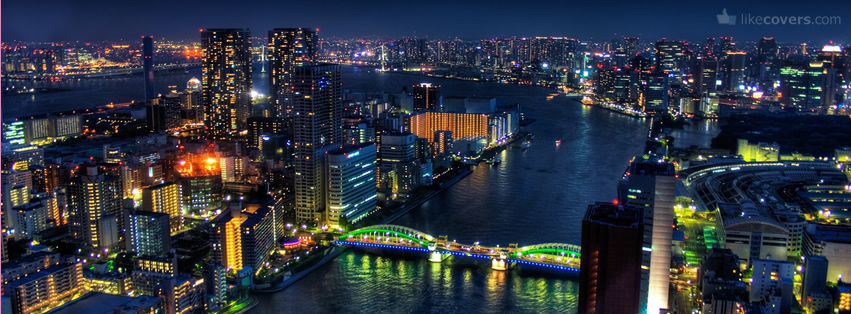
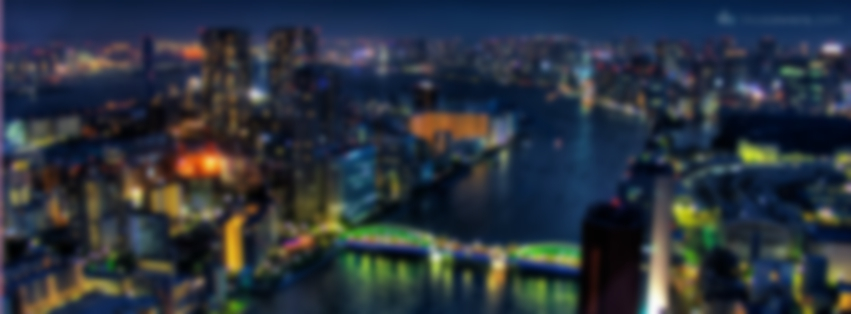
updated css setting

Changed region(s): [[0.0, 0.0, 1.0, 1.0], [0.8555, 0.0573, 0.9777, 0.086], [0.6722, 0.6879, 0.7333, 0.7166]]

diff --git a/index.html b/index.html
@@ -64,7 +64,7 @@
 	/* Defining each sectino background and styles
 	* --------------------------------------- */
 
-
+  /*
 	.myClass0:before {
   		background: url(images/city.jpg) no-repeat fixed;
   		content: '';
@@ -79,6 +79,16 @@
       -ms-filter: blur(10px);
       filter: blur(10px);
  	}
+  */
+
+  #section0{
+    background:url(images/city.jpg) no-repeat;
+    background-size: cover;
+    width: 100%;
+    height: 100%;
+    display: block;
+
+  }
 
 	#sectionT{
 		background-color: #565759;
